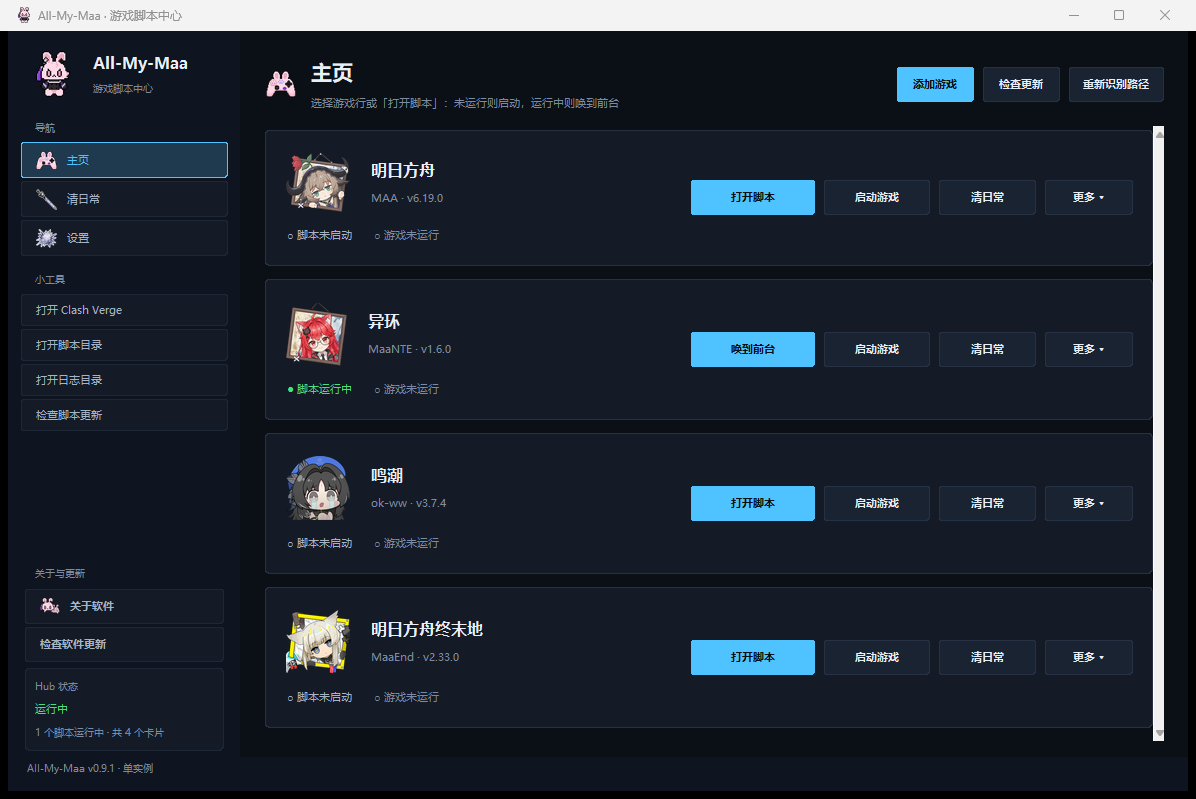
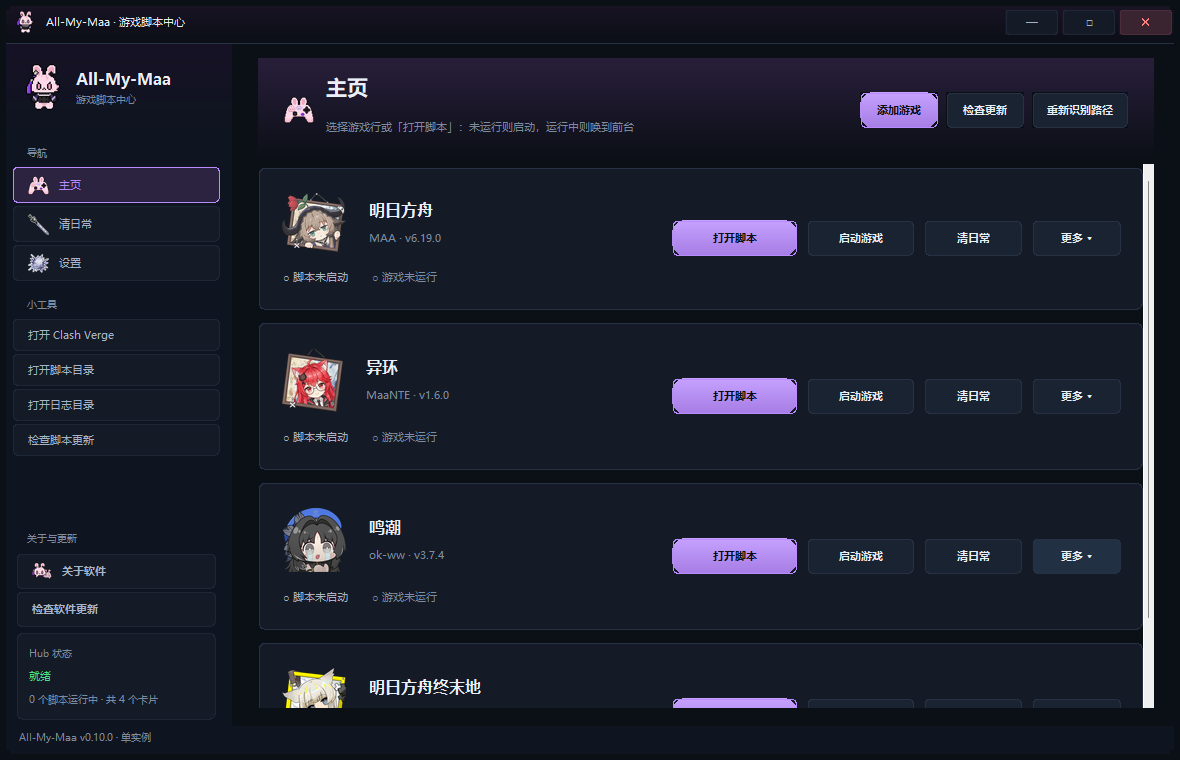
docs: refresh All-My-Maa v0.10.0 screenshots

diff --git a/docs/index.html b/docs/index.html
@@ -92,7 +92,7 @@
       </div>
       <figure class="hero-shot">
         <div class="shot-frame">
-          <img src="assets/screenshot.png" width="1196" height="799" alt="All-My-Maa 主界面：左侧导航（导航 / 小工具 / 关于与更新）与主页游戏行，展示脚本 / 游戏运行状态、打开脚本 / 启动游戏 / 清日常 / 更多按钮">
+          <img src="assets/screenshot.png" width="1180" height="760" alt="All-My-Maa 主界面：淡紫渐变自定义标题栏与左侧导航（导航 / 小工具 / 关于与更新）、主页游戏行，展示脚本 / 游戏运行状态、打开脚本 / 启动游戏 / 清日常 / 更多按钮">
         </div>
         <div class="shot-badge shot-badge-a" aria-hidden="true">4 个内置脚本</div>
         <div class="shot-badge shot-badge-b" aria-hidden="true">淡紫渐变 · 可最大化</div>
